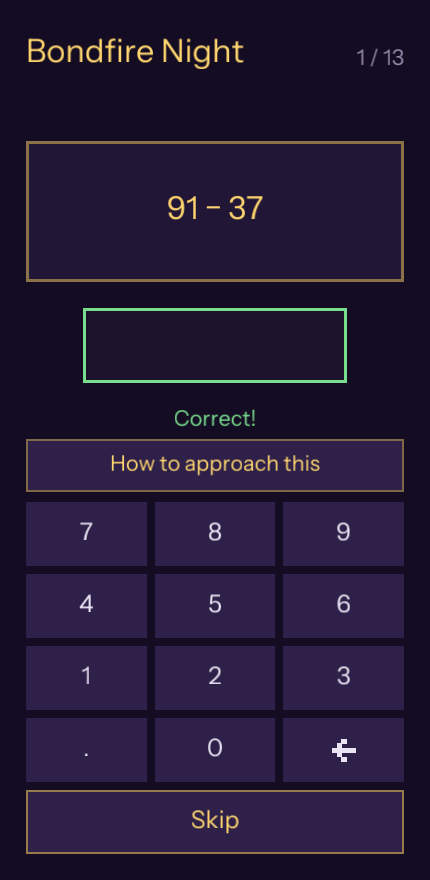
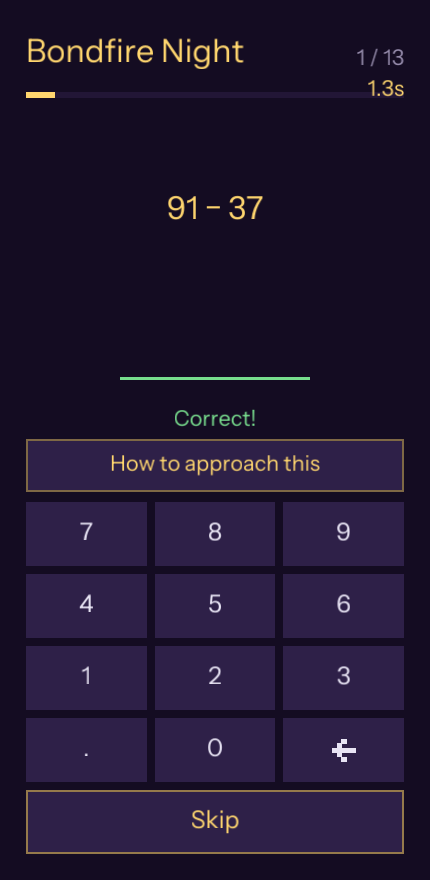
docs: event-play V9/V10 render + log (brickmap fd13619)
Borderless prompt/answer, top progress bar, per-question timer. visual-compare
event-play 8.32 → 7.71 (examine).

Claude-Session: https://claude.ai/code/session_01E9cJYJn3cUqfGgC4TZffwe

diff --git a/docs/agent/BUILDER-LOG-FX.md b/docs/agent/BUILDER-LOG-FX.md
@@ -6,6 +6,20 @@ Never edits an existing Halves file (wiring is Builder A's job). This log is min
 
 ---
 
+## BRICKMAP-GG1 FULL PORT — phase 5 PARITY: event-play residuals V9 + V10 ([B], GO)
+
+Closed the post-V1–V7 residuals on the shared drill UI. `00-1/brickmap` `fd13619` (main + feature).
+**Re-rendered `content/gg1/visual-ref/event-play-brickmap.png`.** visual-compare **8.32 → 7.71** (examine).
+- **V9:** prompt + answer are now **borderless large text** (web's look) — dropped the gold question
+  card + answer box; a thin verdict-tinted **underline** marks the input slot.
+- **V10:** a top **progress bar** (solved/len) under the heading + a per-question **timer** ("1.3s")
+  under the counter — `drill_frame` takes an `Option<f32>` the live loop feeds from `q_start` (it
+  already drove Spark scoring; now it's shown). Applies to topic drills too.
+- **Gates:** clippy clean (native + `aarch64-android`), full suite, GPU goldens (`drill-initial`
+  re-blessed). **Remaining on Arena/event-play:** V8 (shared gold Back-bar style) + D1/D2 (owner-decide).
+
+---
+
 ## BRICKMAP-GG1 FULL PORT — phase 5 PARITY: the HEROES visual pass ([B], GO)
 
 Heroes roster rebuilt to the visual bar against `heroes-web.png` (was a flat text list). `00-1/brickmap`